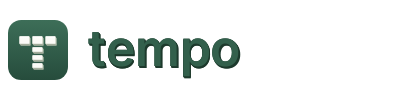
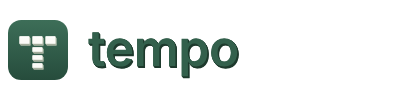
Ship the wordmark as Inter 600 outlines so it no longer falls back to a system font

Changed region(s): [[0.24, 0.36, 0.6, 0.81], [0.21, 0.36, 0.27, 0.39]]

diff --git a/app/templates/base.html b/app/templates/base.html
@@ -4,7 +4,7 @@
     <meta charset="UTF-8" />
     <meta name="viewport" content="width=device-width, initial-scale=1.0" />
     <title>{{ (title or app_name) ~ (" | " ~ school_name if school_name else "") }}</title>
-    <link rel="icon" type="image/svg+xml" href="{{ url_for('static', path='/img/tempo-favicon.svg') }}?v=20261012c" />
+    <link rel="icon" type="image/svg+xml" href="{{ url_for('static', path='/img/tempo-favicon.svg') }}?v=20261012d" />
     <link rel="stylesheet" href="{{ url_for('static', path='/css/app.css') }}?v=20261012b" />
     <script src="{{ url_for('static', path='/js/datepicker.js') }}?v=20261012a" defer></script>
   </head>
@@ -13,7 +13,7 @@
     <header class="site-header">
       <div class="container">
         <a class="brand" href="/">
-          <img class="brand-mark" src="{{ url_for('static', path='/img/tempo-lockup-pine.svg') }}?v=20261012c" alt="{{ app_name }}" />
+          <img class="brand-mark" src="{{ url_for('static', path='/img/tempo-lockup-pine.svg') }}?v=20261012d" alt="{{ app_name }}" />
           <span class="brand-tagline">{{ "Planificador curricular · " ~ school_name if school_name else "Planificador curricular" }}</span>
         </a>
       </div>

diff --git a/design/brand/README.md b/design/brand/README.md
@@ -4,7 +4,7 @@ Production package for the approved Tempo mark (Cadence Stack — Production Mas
 
 Since 2.0 the artwork draws each module as a solid extruded block (right and bottom faces plus a top-lit front face), with a matching extruded wordmark, as described in Section 4 of `../tempo-design-system.md`. It uses only SVG rectangles, polygons, text and linear gradients, no filters. The `black` variants and `safari-pinned-tab.svg` stay flat for single-ink use.
 
-PNG files are rendered natively per size from the SVGs in a headless browser with Inter loaded, so the wordmark rasterizes in Inter rather than a fallback font. `favicon.ico` bundles the 16/32/48 PNG renders.
+The wordmark is stored as outlines (Inter 600 glyphs with Inter's kerning and the specified letter-spacing, taken from `app/static/fonts/inter-latin-variable.woff2`), not as live `<text>`, so it renders identically in `<img>` tags, print and design tools without Inter installed. PNG files are rendered natively per size from the SVGs. `favicon.ico` bundles the 16/32/48 PNG renders.
 
 ## Directory contents
 
@@ -60,7 +60,7 @@ ico/            favicon.ico (16/32/48 layers, PNG-in-ICO)
 
 ## Recommended CSS usage
 
-Prefer the SVG variants inline or via `<img>` — they scale losslessly and need no CSS filters or shadows (the relief is already in the artwork). Note that an SVG loaded via `<img>` cannot use the page's web fonts: the wordmark text falls back to the system sans-serif unless Inter is installed, so use the PNG or inline the SVG where exact Inter rendering matters. Use `symbol` SVGs (not `lockup`) as inline UI marks so they don't drag in wordmark whitespace. For a symbol that must sit on an arbitrary/unknown background, use the plain (non-reversed) color that has the most contrast, or `white`/`black` monochrome.
+Prefer the SVG variants inline or via `<img>` — they scale losslessly and need no CSS filters or shadows (the relief is already in the artwork). Use `symbol` SVGs (not `lockup`) as inline UI marks so they don't drag in wordmark whitespace. For a symbol that must sit on an arbitrary/unknown background, use the plain (non-reversed) color that has the most contrast, or `white`/`black` monochrome.
 
 ## Transparent vs. reversed variants
 

diff --git a/design/tempo-design-system.md b/design/tempo-design-system.md
@@ -153,7 +153,7 @@ Since 2.0 every module is drawn as a solid block seen slightly from above-left, 
 - **Front face:** a vertical gradient from a lighter tint at the top (Pine `#4f806a`, Deep Pine `#3a6553`, Ink `#3c463d`) to the base color at 35% of its height, then flat base color.
 - **Optical centering:** the whole stack is shifted by −1.3 x / −1.7 y units (half the extrusion) so the extruded silhouette, not just the front faces, sits centered in its box. Front-face coordinates in the table above are before this shift.
 - **On a colored field** (app icon, favicon, lockup tile, reversed builds): blocks are cream (`#ffffff` → Surface `#fbfbf7` front, right face `#c8cfbf`, bottom face `#a3ad9b`) on a vertical field gradient (Pine `#3d6e58` → `#264c3c`; Deep Pine `#284a3c` → `#152a20`; Ink `#2a342b` → `#131814`).
-- **Wordmark:** extruded to match: six stacked copies of the word step toward an offset of +1.9/+2.5 units at 60px (+1.6/+2.1 at the lockup's 50px) in the depth shade, behind the flat base-color word. No gradient on the letterforms, so Inter 600 stays crisp.
+- **Wordmark:** extruded to match: six stacked copies of the word step toward an offset of +1.9/+2.5 units at 60px (+1.6/+2.1 at the lockup's 50px) in the depth shade, behind the flat base-color word. No gradient on the letterforms, so Inter 600 stays crisp. The word is shipped as outlines (Inter 600 glyphs, kerned, letter-spacing −1% of the font size), never as live text, so it looks the same wherever the file is used.
 - **White (dark mode):** right faces are white at 50% opacity and bottom faces black at 30% over them; the wordmark depth is white at 38% opacity. The mark stays effectively single-color and keeps its depth on any dark surface.
 - **Exceptions:** the Black monochrome build and the Safari pinned-tab silhouette stay flat (with the 0.9 radius). Both exist for single-ink reproduction, where tints and offsets cannot be printed or are forbidden by the platform.
 - **Small sizes:** at 16px the extrusion is about half a pixel, so the favicon reads as a crisp T with a slight edge. Do not draw a separate small build or exaggerate the depth to make it visible.
